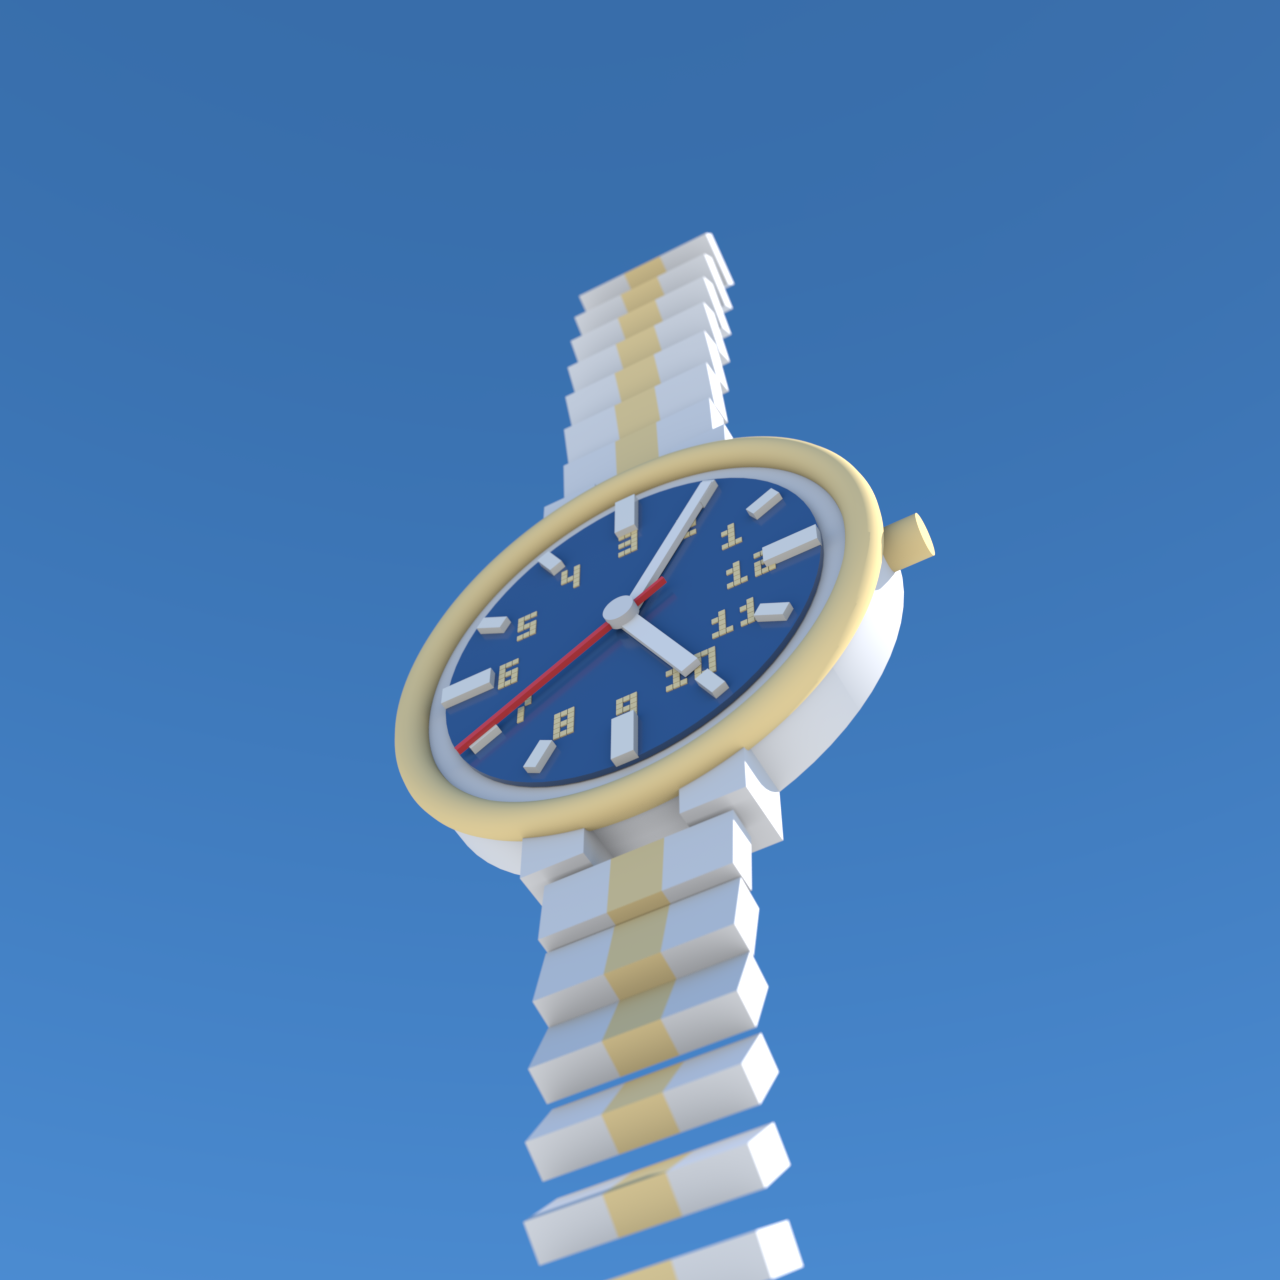
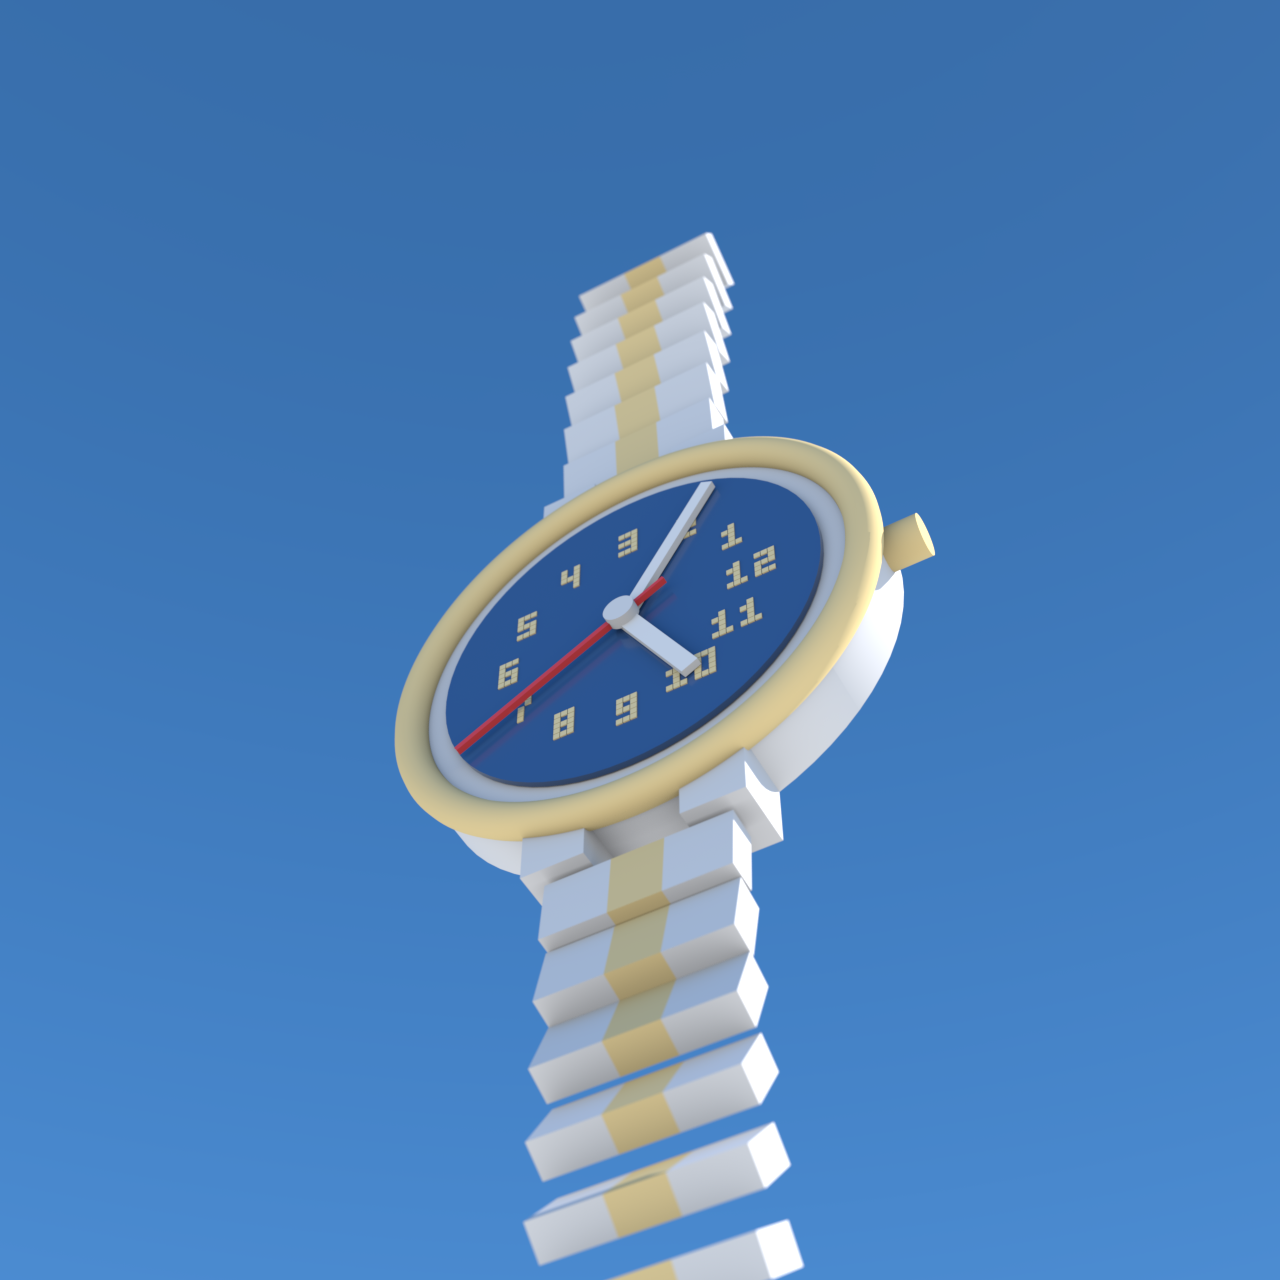
refine(wristwatch): smaller tapered hour markers
Replace chunky box markers with smaller tapered batons (wider at the base,
narrower at the outer tip) for a subtly shaped applied-marker look. Marker
length/base/tip shrunk vs the first pass; quarter-hour markers remain chunkier.

Also fixes a structural bug introduced while adding the marker helper: the
add_marker_baton def was placed inside build()'s span, prematurely closing
build() and orphaning the numerals/hands/bracelet block. Moved the helper to
module level after build() so build() once again returns the full OBJ.

diff --git a/scripts/gen_watch.py b/scripts/gen_watch.py
@@ -279,14 +279,19 @@ def build():
     # Blue dial
     b.add_cylinder(center=(0, 0, dial_z), radius=dial_r, height=0.05, segments=72, material="mat_dial")
 
-    # White radial hour markers (radial orientation fix vs first pass); chunkier at 12/3/6/9
+    # White radial hour markers (radial orientation fix vs first pass); chunkier at
+    # 12/3/6/9. Tapered batons (slightly narrower at the outer tip) so they read
+    # as shaped, and a touch smaller than the first pass.
     for k in range(12):
         a = 2.0 * math.pi * k / 12
         mx, my = marker_r * math.cos(a), marker_r * math.sin(a)
-        long = 0.44 if k % 3 == 0 else 0.26
-        wide = 0.18 if k % 3 == 0 else 0.12
-        add_box_rot(b, center=(mx, my, marker_z), size=(wide, long, 0.08),
-                    material="mat_marker", rot_z=a - math.pi / 2)
+        long = 0.34 if k % 3 == 0 else 0.22
+        wide_base = 0.14 if k % 3 == 0 else 0.09
+        wide_tip = 0.07 if k % 3 == 0 else 0.045
+        add_marker_baton(b, center=(mx, my, marker_z), length=long,
+                         wide_base=wide_base, wide_tip=wide_tip, thickness=0.07,
+                         material="mat_marker", rot_z=a - math.pi / 2)
+
 
     # Gold arabic numerals just inside the markers (12 at top; classic clockwise layout)
     numeral_r = 1.05
@@ -333,6 +338,45 @@ def build():
     add_ground(b, half=9.0, top=-0.34, thick=0.4, material="mat_ground")
 
     return b.text(), b.bounds()
+
+
+def add_marker_baton(b: ObjBuilder, *, center, length, wide_base, wide_tip,
+                     thickness=0.07, material="mat_marker", rot_z=0.0):
+    """A small tapered baton marker lying flat on the dial (+Z), oriented along
+    its local +Y and rotated by rot_z. Wider at the base (toward dial center),
+    narrower at the tip (toward the rim) -> a subtly shaped applied marker.
+    """
+    cx, cy, cz = center
+    cosr, sinr = math.cos(rot_z), math.sin(rot_z)
+
+    def place(lx, ly, lz):
+        # local: x=width axis, y=length axis (base at -L/2, tip at +L/2), z=thickness
+        x = cx + lx * cosr - ly * sinr
+        y = cy + lx * sinr + ly * cosr
+        z = cz + lz
+        return (round(x, 6), round(y, 6), round(z, 6))
+
+    hz = thickness / 2.0
+    hl = length / 2.0
+    # 8 corners: base ring (y=-hl), tip ring (y=+hl); x half-widths differ.
+    corners = [
+        place(-wide_base, -hl, -hz), place(wide_base, -hl, -hz),
+        place(wide_base, -hl, hz),  place(-wide_base, -hl, hz),
+        place(-wide_tip, hl, -hz),  place(wide_tip, hl, -hz),
+        place(wide_tip, hl, hz),    place(-wide_tip, hl, hz),
+    ]
+    b.lines.append(f"usemtl {material}")
+    for x, y, z in corners:
+        b.lines.append(f"v {x:.6f} {y:.6f} {z:.6f}")
+    # base(1-4) tip(5-8)
+    faces = [
+        (0, 1, 2, 3), (7, 6, 5, 4),
+        (4, 5, 1, 0), (5, 6, 2, 1), (6, 7, 3, 2), (7, 4, 0, 3),
+    ]
+    for f in faces:
+        b.lines.append("f " + " ".join(str(1 + i) for i in f))
+    b.vertex_count += 8
+    return
 
 
 def add_ground(b: ObjBuilder, *, half=9.0, top=-0.34, thick=0.4, material="mat_ground"):